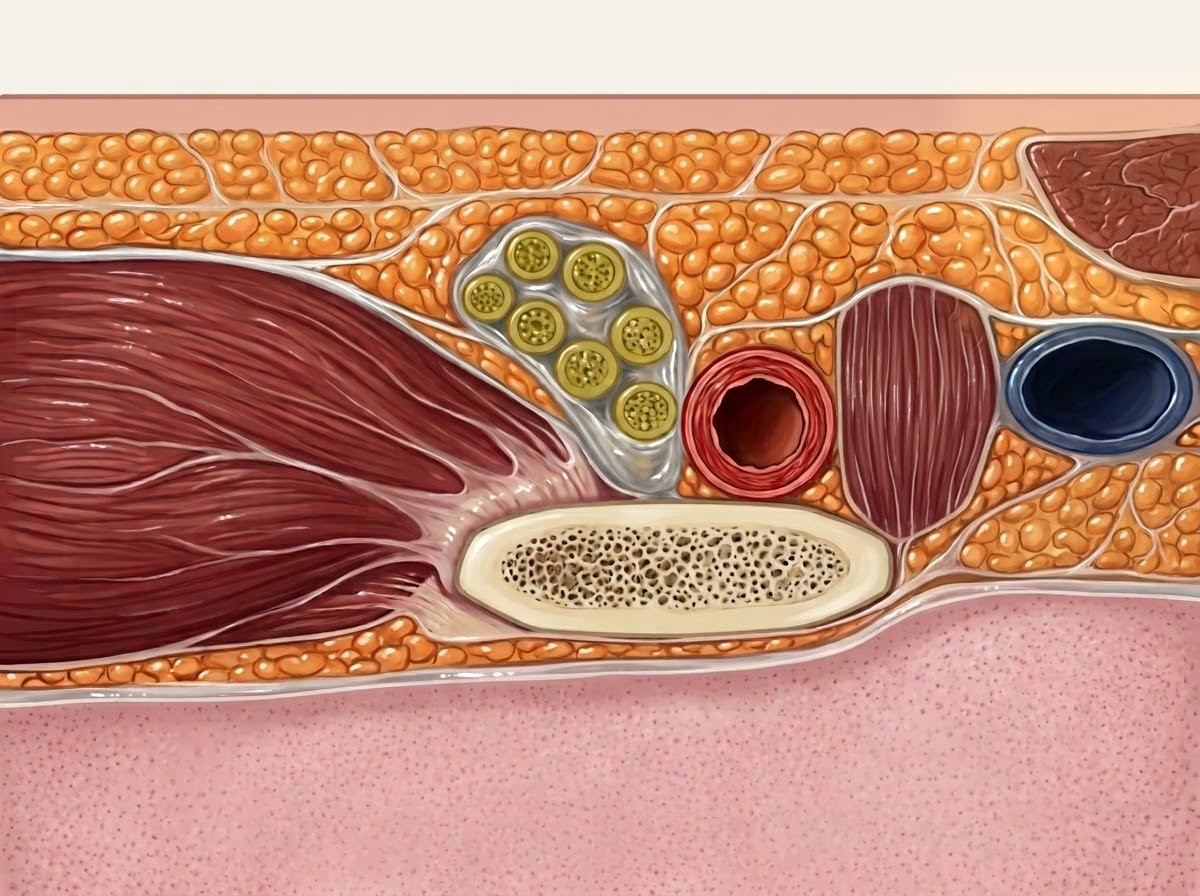
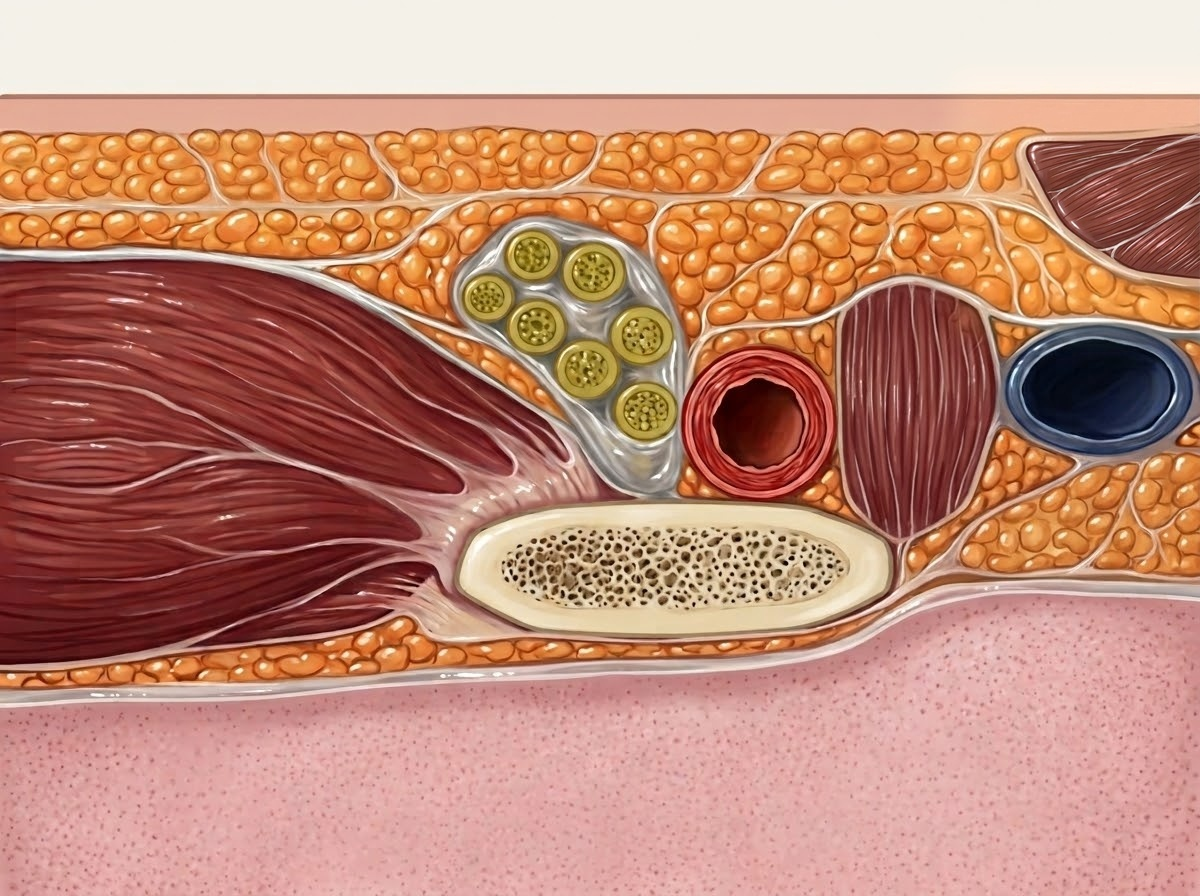
Supraclavicular plates: needle entering skin on the photo, SCM fibred on the section (review drafts)
Photo: the owner's same-chat repair angles the needle down into the skin
beside the probe's lateral end; needle re-traced. Section: the SCM corner
crop-repainted with fibres and merged back (0 px outside the box).
27 and 112 checks.

Claude-Session: https://claude.ai/code/session_01HGiSJjsUpkXLQfaRjSMvz9

Changed region(s): [[0.8633, 0.125, 1.0, 0.3125]]

diff --git a/visuals/supraclavicular_patient_position/draw.py b/visuals/supraclavicular_patient_position/draw.py
@@ -86,10 +86,11 @@ PROBE = ((PROBE_C[0] - PROBE_LEN / 2, PROBE_C[1] - PROBE_W / 2), (PROBE_C[0] + P
 NEEDLE_ENTRY = (PROBE[0][0] - 9, PROBE_C[1])
 NEEDLE_HUB = (PROBE[0][0] - 40, PROBE_C[1])
 if BASE.exists():
-    # Traced: the painted needle runs level from its hub (base x 322, y 631)
-    # to the probe's lateral edge (x 470), in line with the probe.
-    NEEDLE_ENTRY = (PROBE[0][0] - 0.6, 25.6)
-    NEEDLE_HUB = (-41.4, 25.6)
+    # Traced after the needle repair (2026-10-13): the needle runs down from
+    # its hub (base x 319, y 630) and enters the skin at the gel beside the
+    # probe's lateral end (x 512, y 674), in line with the probe.
+    NEEDLE_ENTRY = (-9.7, 32.7)
+    NEEDLE_HUB = (-41.8, 25.3)
 
 
 def pc(dx, dy):
@@ -125,7 +126,7 @@ def build() -> str:
     # (independent review, 2026-10-13); the layout's clavicle runs under it.
     clav_pt = c((5, CLAVICLE_Y + 1.0))
     labels = [
-        Label(["Block needle"], anchor=(40, 700), leader=[(200, 730), ((ne[0] + nh[0]) / 2, ne[1] - 2)], target_id="needle"),
+        Label(["Block needle"], anchor=(40, 700), leader=[(200, 730), ((ne[0] + nh[0]) / 2, (ne[1] + nh[1]) / 2)], target_id="needle"),
         Label(["Linear probe"], anchor=(1180, 700), leader=[(1200, 660), (p1[0] - 30, (p0[1] + p1[1]) / 2)], target_id="probe"),
         Label(["Clavicle"], anchor=(1230, 1110), leader=[(1240, 1060), clav_pt], target_id="clavicle"),
     ]
